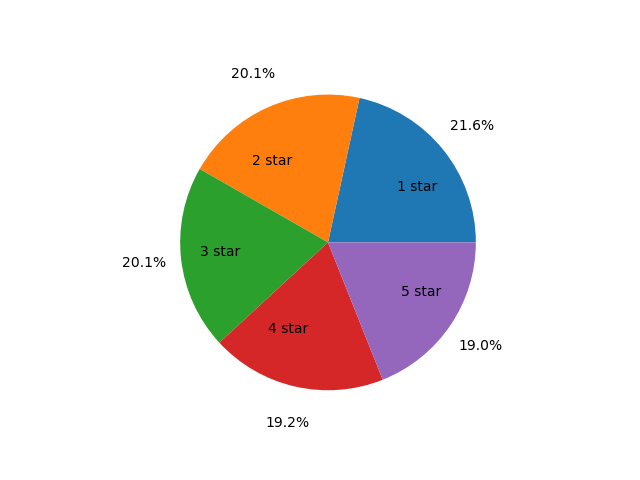
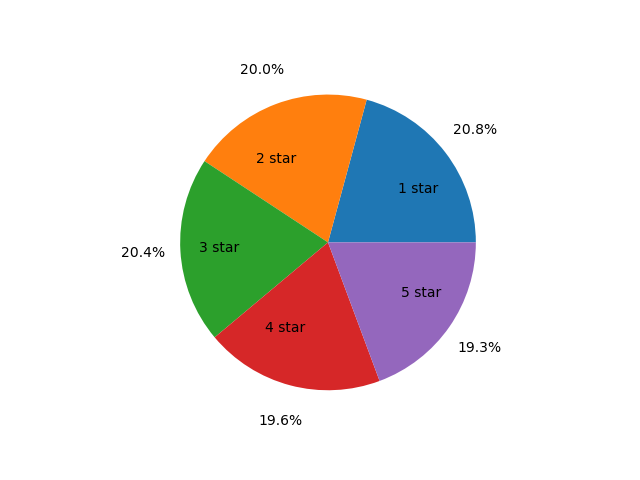
Minor bug

diff --git a/src/get_stats.py b/src/get_stats.py
@@ -59,7 +59,7 @@ dfs = [pd.read_csv(f'../data/clean/{i}star.csv') for i in range(1, 5+1)]
 word_cnt = [sum(dfs[i]['0'].apply(lambda x:len(x.split()))) for i in range(5)]
 labels = tuple(f'{i} star' for i in range(1, 5+1))
 fig, ax = plt.subplots()
-ax.pie(sen_cnt, labels=labels, autopct='%1.1f%%', pctdistance=1.25, labeldistance=.6)
+ax.pie(word_cnt, labels=labels, autopct='%1.1f%%', pctdistance=1.25, labeldistance=.6)
 fig.savefig("../stats/word_cnt.png")
 fig.savefig("../latex_report/Images/word_cnt.png")
 
